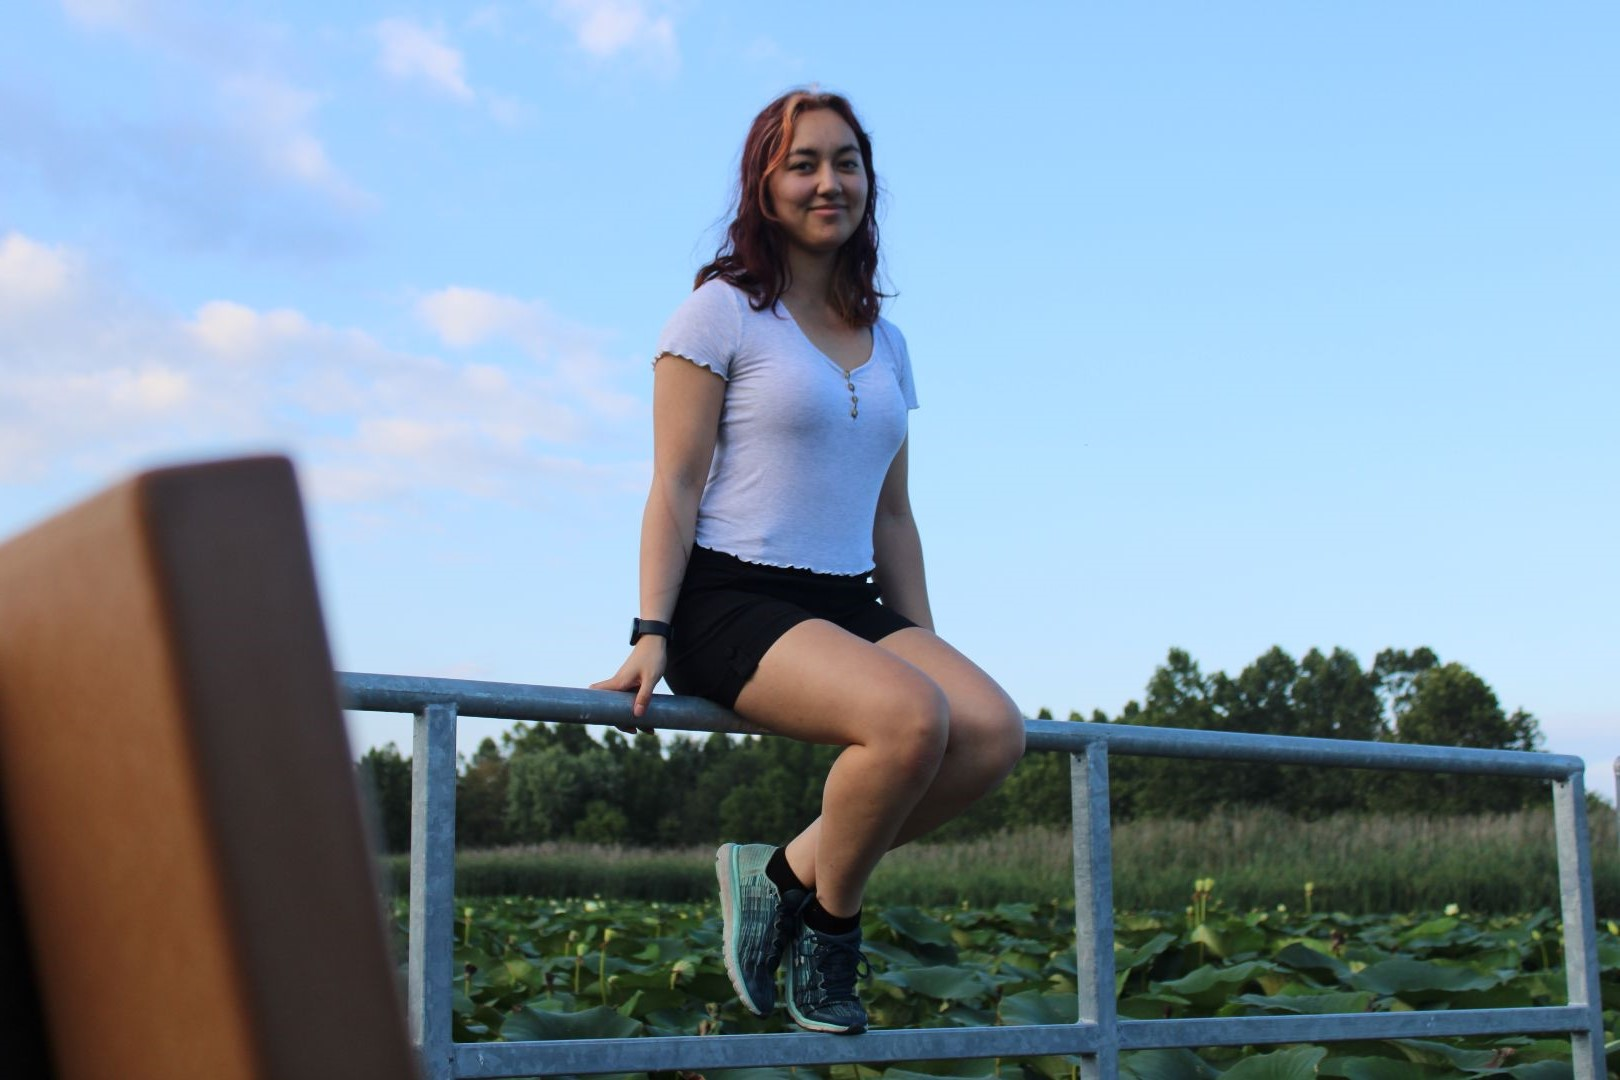
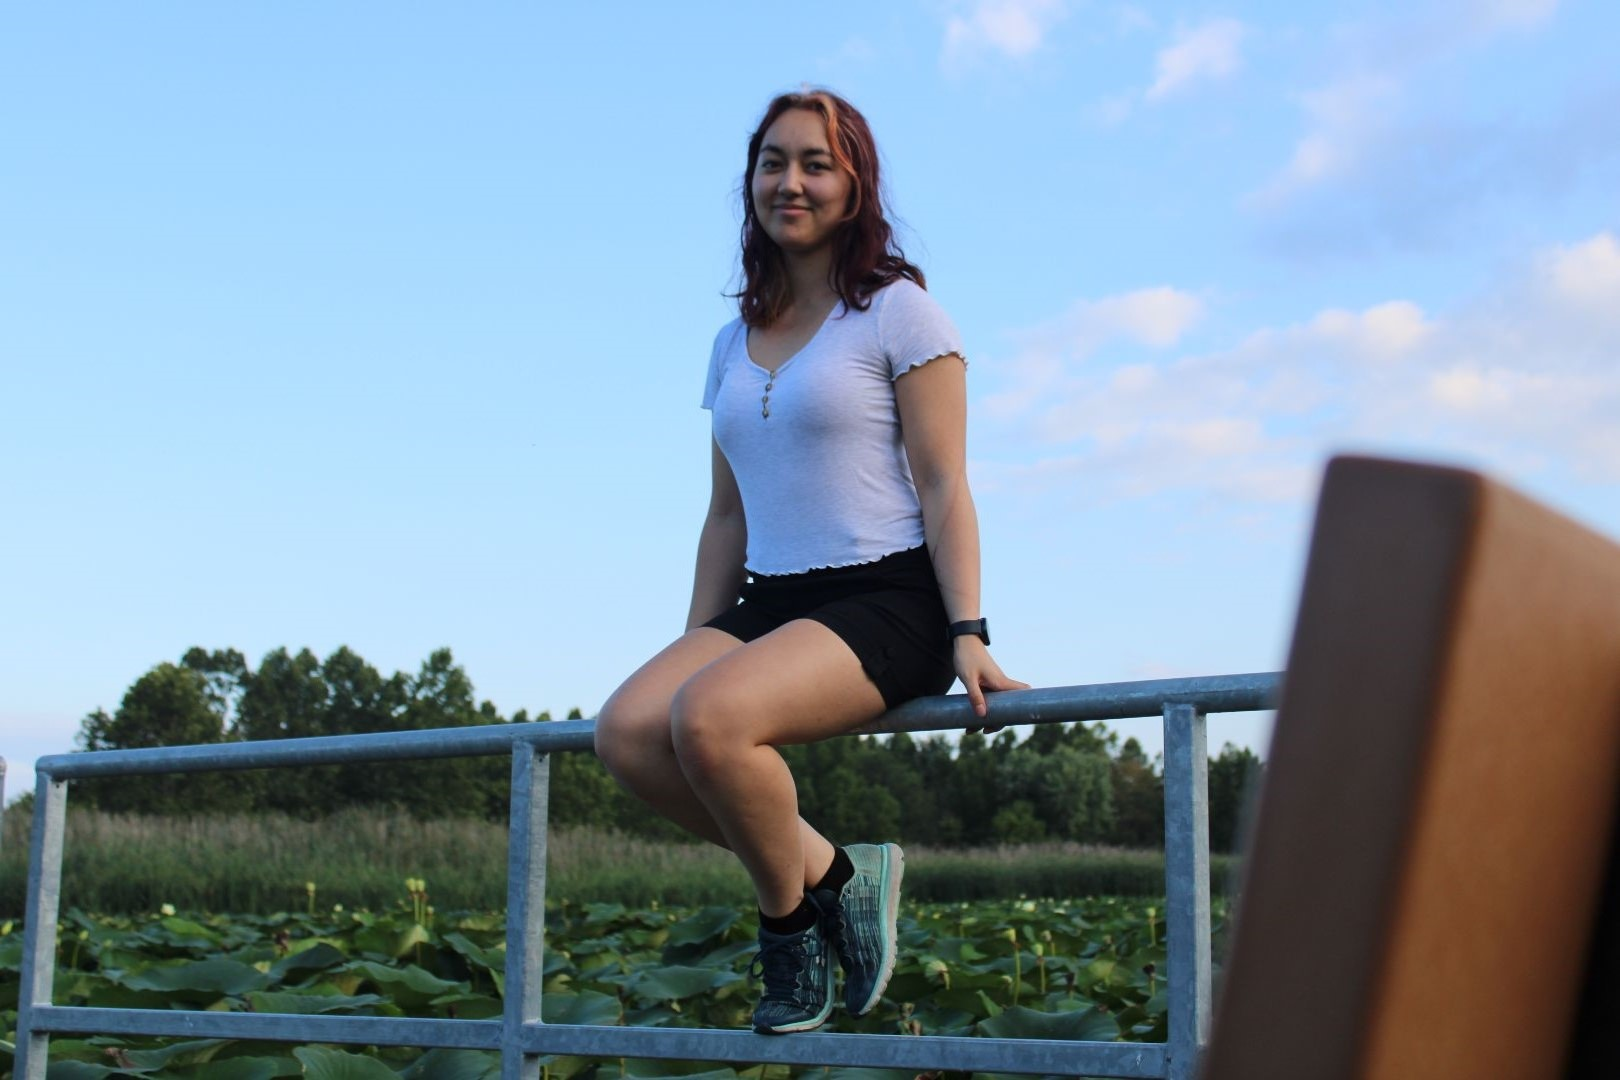
about background

diff --git a/newabout.html b/newabout.html
@@ -13,7 +13,7 @@
 
     
   </head>
-  <body id="about" style="background-image: url('images/aboutpic.jpg'); background-size: cover; background-position: center;">
+  <body id="about" style="background-image: url('images/aboutbar.png'); background-size: cover; background-position: center;">
     <header>
       <!-- <h1><a href="index.html" id="headlink">Jasmine Labayog</a></h1> -->
     </header>
